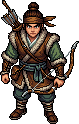
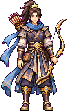
獵戶男女：換成GPT八方位站立圖（持弓/空手），舊走路攻擊圖移除
Claude-Session: https://claude.ai/code/session_01TfDhagCiaMjipPx8vrMTLg

diff --git a/sw.js b/sw.js
@@ -2,7 +2,7 @@
 // 讓遊戲可以「安裝到桌面/主畫面」成為獨立App，並提供離線快取(圖片/音效載入過一次後，
 // 離線或網路不穩時也能照常遊玩；index.html本身每次都優先抓最新版，確保更新後玩家能立刻拿到新內容)。
 
-const CACHE_VERSION = 'v80.36-19';           // 每次正式更新版本號時手動遞增，瀏覽器才會清掉舊快取換新的
+const CACHE_VERSION = 'v80.36-20';           // 每次正式更新版本號時手動遞增，瀏覽器才會清掉舊快取換新的
 const SHELL_CACHE = 'lineage-pixel-shell-' + CACHE_VERSION;
 const ASSET_CACHE  = 'lineage-pixel-assets-' + CACHE_VERSION;
 

diff --git a/index.html b/index.html
@@ -11199,7 +11199,7 @@ function drawSlotEmpty(x){ x.clearRect(0,0,200,200); }
 })();
 /* ============ 更新系統（登入首頁） ============ */
 // 版本號：每次正式更新時，這裡和 sw.js 的 CACHE_VERSION 一起遞增
-const GAME_VER='v80.36-19';
+const GAME_VER='v80.36-20';
 let _updNew=null;
 async function checkUpdate(manual){
   const msg=document.getElementById('updMsg'), btn=document.getElementById('updBtn');
